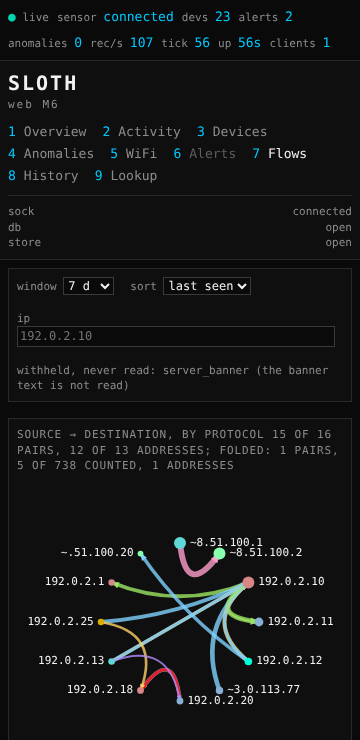
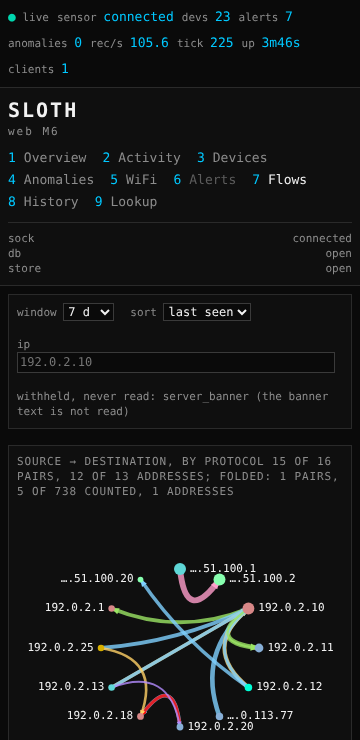
Fix slothweb M6's view address, chord labels and beside-sloth command (refs #164)
The view never reached the address bar: the History view's loader was a
function named history() inside the page's IIFE, so
history.replaceState called it, threw, and the catch around it hid the
failure. The loader is now historyView(), the call is spelled
window.history.replaceState, and the catch rethrows anything but a
sandboxed frame's SecurityError. Checked in headless Chromium against
the demo: a click on Flows sets #flows and a reload stays on Flows. The
old text-presence assertion could not tell broken from fixed, so
test_page_shadows_no_browser_global now refuses any declaration named
after a browser global the page uses (seen red with the function renamed
back, and against e89e3c2).

Chord labels cut from the left by character turned 198.51.100.1 into
"~8.51.100.1", which reads as a different, routable address. They are
now cut only after a "." or ":", behind an ellipsis ("….51.100.1"). The
Flows table's address columns grow from 16 to 40 characters with the
width, and a cut cell carries the whole address as its tooltip. The
Flows screenshots are retaken from the demo.

The beside-sloth command ran ./slothweb from a checkout with the store
in the current directory, which the sloth account usually cannot reach
or write. It now installs the binary and runs it with sudo -u sloth and
a store in /var/lib/sloth.

Claude-Session: https://claude.ai/code/session_014QGdMZTPpQG8LiDhaC78QR

diff --git a/web/ui/app.js b/web/ui/app.js
@@ -275,11 +275,13 @@
     if (v === "devices") devices();
     if (v === "wifi") wifi();
     if (v === "flows") flows();
-    if (v === "history") history();
+    if (v === "history") historyView();
     if (v === "lookup") $("l-q").focus();
     // The view is in the address (#flows), so a reload or a link opens
     // it again; replaceState, so Back leaves the page as before.
-    try { history.replaceState(null, "", "#" + v); } catch (e) { /* a sandboxed frame */ }
+    // Only a sandboxed frame's refusal is expected; anything else is a
+    // bug and is left to surface rather than be swallowed here.
+    try { window.history.replaceState(null, "", "#" + v); } catch (e) { if (e.name !== "SecurityError") throw e; }
   }
   // The view named in the address, if it is one.
   function hashView() {
@@ -1478,8 +1480,13 @@
   function flowRow(f, cols) {
     var from = f.src, to = f.dst;
     var row = el("div", f.smb1 === true ? "frow sev2" : "frow");
-    row.appendChild(el("span", "", typeof from === "string" ? from : "-"));
-    row.appendChild(el("span", "", typeof to === "string" ? to : "(source only)"));
+    // The address columns grow to a full IPv6 address (40ch) when the
+    // row has room; narrower, the cell's ellipsis hides the tail, so the
+    // whole address is its tooltip.
+    var sc = row.appendChild(el("span", "", typeof from === "string" ? from : "-"));
+    var dc = row.appendChild(el("span", "", typeof to === "string" ? to : "(source only)"));
+    if (typeof from === "string") sc.title = from;
+    if (typeof to === "string") dc.title = to;
     var counts = (f.counts || []).map(function (v, i) {
       return String(cols[i] || "?").replace(/_count$/, "") + " " + fmt(v);
     }).join("  ");
@@ -1544,6 +1551,22 @@
       set("f-count", "");
       set("f-note", errText(e.message));
     });
+  }
+
+  // A chord label at most maxc characters long. Cut from the left (an
+  // address's tail is the part that differs), and only after a "." or
+  // ":", behind an ellipsis, so what is left can never read as another
+  // whole address: 198.51.100.1 becomes "\u2026.51.100.1", not
+  // "8.51.100.1". A label with no separator late enough is cut anywhere,
+  // still behind the ellipsis. The node's full address is what a click
+  // filters the table by.
+  function cutLabel(id, maxc) {
+    if (id.length <= maxc) return id;
+    for (var i = 1; i < id.length; i++) {
+      var c = id.charAt(i);
+      if ((c === "." || c === ":") && id.length - i + 1 <= maxc) return "\u2026" + id.slice(i);
+    }
+    return "\u2026" + id.slice(id.length - maxc + 1);
   }
 
   // The chord: the nodes the server kept on a circle, busiest first
@@ -1615,9 +1638,7 @@
       x.textBaseline = "middle";
       x.fillStyle = T.ink;
       var id = String(n.id);
-      // Cut from the left: an address's tail is the part that differs.
-      var maxc = narrow ? 11 : 22;
-      var t = id.length > maxc ? "~" + id.slice(id.length - maxc + 1) : id;
+      var t = cutLabel(id, narrow ? 11 : 22);
       var lx = p.x + (right ? 1 : -1) * (r + 4 * dpr), ly = p.y;
       x.fillText(t, lx, ly);
       F.hits.push({ x: p.x, y: p.y, r: Math.max(r, 8 * dpr), id: id });
@@ -1878,7 +1899,7 @@
     }).catch(function () { /* the cards stand empty */ });
   }
 
-  function history() {
+  function historyView() {
     var now = Math.floor(Date.now() / 1000);
     var to = now, from = to - 30 * 86400;
     getJSON("/api/history/overview?from=" + from + "&to=" + to + "&cols=180").then(function (j) {

diff --git a/web/ui/page.css b/web/ui/page.css
@@ -172,7 +172,7 @@ table.qt td.nul { color: var(--faint); }
 }
 /* Flows (§8.9, M6): one tab's rows, the counters flexing; an SMB1 row is
  * in the critical colour and says SMB1 in its own column too. */
-.frow { display: grid; grid-template-columns: 16ch 16ch minmax(14ch, 1fr) 9ch 11ch 11ch 11ch; gap: 6px; align-items: center; font-size: 12px; white-space: nowrap; padding: 1px 0 1px 4px; border-left: 3px solid transparent; min-width: calc(88ch + 60px); }
+.frow { display: grid; grid-template-columns: minmax(16ch, 40ch) minmax(16ch, 40ch) minmax(14ch, 1fr) 9ch 11ch 11ch 11ch; gap: 6px; align-items: center; font-size: 12px; white-space: nowrap; padding: 1px 0 1px 4px; border-left: 3px solid transparent; min-width: calc(88ch + 60px); }
 .frow > span { overflow: hidden; text-overflow: ellipsis; min-width: 0; }
 .frow.sev2 { color: var(--sev-crit); border-left-color: var(--sev-crit); }
 .frow .n { text-align: right; }

diff --git a/web/tests/test_flows.c b/web/tests/test_flows.c
@@ -96,7 +96,9 @@ static void test_tabs_against_the_allow_list(void) {
 }
 
 /* The page's Flows view. Seen red with f-chord renamed in index.html
- * and with the "7" key case removed from app.js. */
+ * and with the "7" key case removed from app.js. The replaceState
+ * line held to its window.history spelling: seen red on e89e3c2, where
+ * it read "history.replaceState" and a local function hid the global. */
 static void test_page_carries_the_flows_view(void) {
     const char *p = (const char *)web_page;
     static const char *const ids[] = {
@@ -128,8 +130,40 @@ static void test_page_carries_the_flows_view(void) {
     WT_HAS(p, ".hscroll { overflow-x: auto; max-width: 100%; }");
     WT_HAS(p, "color-scheme: dark;");
     WT_HAS(p, "<meta name=\"color-scheme\" content=\"dark\">");
-    WT_HAS(p, "history.replaceState(null, \"\", \"#\" + v)");
+    WT_HAS(p, "window.history.replaceState(null, \"\", \"#\" + v)");
     WT_HAS(p, "NOSQL = h.store === \"memory\";");
+}
+
+/* The page's script runs inside one function, where a declaration
+ * named after a browser global hides it from every line of that
+ * function: M6 shipped a "function history()" (the History view's
+ * loader), so "history.replaceState" called it, threw, and the catch
+ * around it hid that the address never named the view. No declaration
+ * in the page may take the name of a global the page uses. Seen red
+ * with historyView renamed back to history. */
+static void test_page_shadows_no_browser_global(void) {
+    const char *p = (const char *)web_page;
+    static const char *const globals[] = {
+        "window", "document", "location", "history", "navigator", "fetch",
+        "setTimeout", "clearTimeout", "setInterval", "clearInterval",
+        "getComputedStyle", "encodeURIComponent", "devicePixelRatio",
+        "requestAnimationFrame", "EventSource", "URL", "JSON", "Math", "Date",
+    };
+    static const char *const forms[] = {
+        "function %s(", "function %s (", "var %s ", "var %s=", "var %s;",
+        "var %s,", "let %s ", "const %s ",
+    };
+    for (size_t g = 0; g < sizeof(globals) / sizeof(globals[0]); g++) {
+        for (size_t f = 0; f < sizeof(forms) / sizeof(forms[0]); f++) {
+            char decl[64];
+            snprintf(decl, sizeof(decl), forms[f], globals[g]);
+            if (strstr(p, decl)) fprintf(stderr, "    the page declares \"%s\"\n", decl);
+            WT_ASSERT(strstr(p, decl) == NULL);
+        }
+    }
+    /* The positive control: the page does use the globals checked. */
+    WT_HAS(p, "window.history.");
+    WT_HAS(p, "location.hash");
 }
 
 #ifndef WITH_SQLITE
@@ -138,6 +172,7 @@ void run_flows_tests(void) {
     WT_RUN(test_without_sloth_db);
     WT_RUN(test_tabs_against_the_allow_list);
     WT_RUN(test_page_carries_the_flows_view);
+    WT_RUN(test_page_shadows_no_browser_global);
 }
 
 #else
@@ -446,6 +481,7 @@ void run_flows_tests(void) {
     WT_RUN(test_without_sloth_db);
     WT_RUN(test_tabs_against_the_allow_list);
     WT_RUN(test_page_carries_the_flows_view);
+    WT_RUN(test_page_shadows_no_browser_global);
     up();
     WT_RUN(test_tabs);
     WT_RUN(test_validation);

diff --git a/web/README.md b/web/README.md
@@ -102,12 +102,17 @@ sudo ./sloth --headless --data-socket unix:/run/sloth/sloth.sock --db /var/lib/s
 
 (`docs/wiki/deployment.md` has the systemd unit, which creates
 `/run/sloth` with `RuntimeDirectory=sloth`; by hand,
-`sudo install -d -m 0750 -o sloth /run/sloth`.) Then, as the user sloth
-runs as (the `sloth` account after its privilege drop, or `--user
-NAME`):
+`sudo install -d -m 0750 -o sloth /run/sloth`.) Then run slothweb as
+the user sloth runs as: the `sloth` account after its privilege drop
+(`docs/wiki/deployment.md`), or the `--user NAME` you gave it (put that
+name in place of `sloth`). That account usually cannot reach a
+checkout in your home directory, so install the binary first, and give
+it a store in a directory it owns (`/var/lib/sloth` is `sloth`'s, mode
+`0700`):
 
 ```sh
-./slothweb --sloth-db /var/lib/sloth/sloth.db
+sudo install -m 0755 slothweb /usr/local/bin/slothweb
+sudo -u sloth /usr/local/bin/slothweb --sloth-db /var/lib/sloth/sloth.db --store /var/lib/sloth/slothweb.db
 ```
 
 - **The data socket.** `--socket` defaults to sloth's own default,
@@ -122,7 +127,7 @@ NAME`):
   may not exist yet: slothweb retries on every request.
 - **`--store PATH`** is slothweb's own file (time series, baselines,
   anomaly episodes), default `./slothweb.db` in the directory you start
-  it from. It is created `0600`; never point it at `sloth.db` (refused).
+  it from, which must be one the user slothweb runs as can write. It is created `0600`; never point it at `sloth.db` (refused).
 
 ### Open the page
 
@@ -1830,7 +1835,9 @@ read, 64 nodes drawn, whatever sloth.db holds.
 
 **The view.** A Canvas 2D chord diagram: the kept addresses on a
 circle, busiest first from twelve o'clock, each with its hash colour
-(§8.12) and its address as text; each pair a curve through the middle
+(§8.12) and its address as text (cut to 22 characters, 11 below
+520 px, from the left and only after a `.` or `:`, behind `…`: so
+198.51.100.1 is `….51.100.1`, never a whole address it is not); each pair a curve through the middle
 from its source to an arrowhead at its destination, its width by the
 log of its total, its colour the protocol's hue (`--f-ssh` and the
 rest in `theme.css`), and an SMB1 session in `--sev-crit`. The legend
@@ -1839,7 +1846,10 @@ out, so the drawing never stands on colour alone. Clicking an address
 filters the table by it. Under it, the tab strip (each tab with its
 row count) and the table: source, destination, the counters by name,
 total, the protocol's extra (port and dialect, version, protocol mask),
-first and last seen; newest first, paged with "more". **An SMB1 row is
+first and last seen; newest first, paged with "more". The address
+columns grow from 16 to 40 characters with the width, enough for a
+whole IPv6 address, and a cut one has the whole address as its
+tooltip. **An SMB1 row is
 `--sev-crit`**, by a fixed class (`frow sev2`) and with `SMB1` in its
 own column. Without `--sloth-db`, or in a `WITH_SQLITE=0` build, both
 panels say why instead.

diff --git a/docs/wiki/slothweb.md b/docs/wiki/slothweb.md
@@ -678,15 +678,20 @@ The full account is in
   pair tables (at most 200 read), their busiest endpoints (at most 64
   drawn), and a `fold` that says how many pairs, counted flows and
   addresses were left out of how many; drawn on Canvas 2D by protocol
-  hue with a text legend and the fold line.
+  hue with a text legend and the fold line. A label too long for its
+  width is cut from the left only after a `.` or `:`, behind `…`
+  (`….51.100.1`), so a cut address never reads as a different whole
+  one.
 - **Polish.** Found by driving the page in headless Chromium against
   the demo in four states (full, no `--sloth-db`, no stream,
   `WITH_SQLITE=0`) at 1280 and 360 px: the view list as buttons in tab
   order, rows and cards focusable with `Enter`, the drawer taking and
   returning focus, wide tables scrolling inside their own box, header
   columns aligned with their rows, pointer events on the History strip,
-  `color-scheme: dark`, the view in the address (`#flows`), and a
-  memory-only build's pages saying it cannot read sloth.db.
+  `color-scheme: dark`, the view in the address (`#flows`, through
+  `window.history`: a local `history()` once hid the global and the
+  call failed silently), and a memory-only build's pages saying it
+  cannot read sloth.db.
 - **The README** (`web/README.md`): prerequisites, build (with the
   optional IEEE CSV fetch), the demo, running beside sloth (the socket
   and its permissions, `--sloth-db`, `--store`), opening the page; a

diff --git a/docs/wiki/log.md b/docs/wiki/log.md
@@ -4893,3 +4893,11 @@ report events.
   a security section, a synthetic demo (`make web-demo`), the
   five-minute check (`make web-quickstart-check`) and screenshots of
   the demo in `docs/assets/slothweb/`.
+- 2026-10-23 — [[slothweb]]: M6 review fixes (#164). The view now
+  reaches the address (`#flows`): a local `history()` had hidden
+  `window.history`, and a test now refuses any declaration named after
+  a browser global the page uses. Chord labels are cut only after a `.`
+  or `:`, behind `…`, so a cut address never reads as another whole
+  one; the Flows table's address columns grow to 40 characters. The
+  README's beside-sloth command is the literal one, installed binary
+  and a store in `/var/lib/sloth`.

diff --git a/README.md b/README.md
@@ -408,7 +408,9 @@ chord diagram, History and Lookup.
 ![slothweb Overview on synthetic data](docs/assets/slothweb/overview.png)
 
 ```sh
-make web && ./slothweb --sloth-db /var/lib/sloth/sloth.db   # beside sloth --data-socket --db ...
+make web && sudo install -m 0755 slothweb /usr/local/bin/slothweb
+# beside sloth --data-socket --db ..., as the user sloth runs as:
+sudo -u sloth /usr/local/bin/slothweb --sloth-db /var/lib/sloth/sloth.db --store /var/lib/sloth/slothweb.db
 ```
 
 Five minutes from a clean checkout, with a synthetic demo if there is
